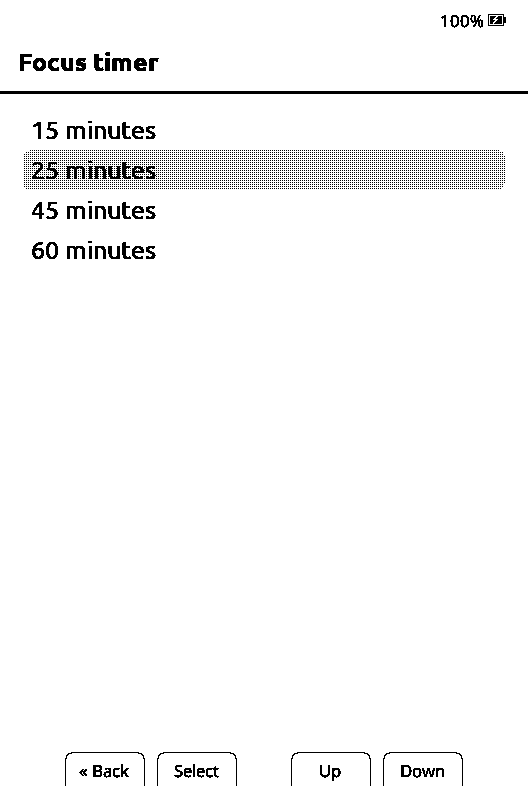
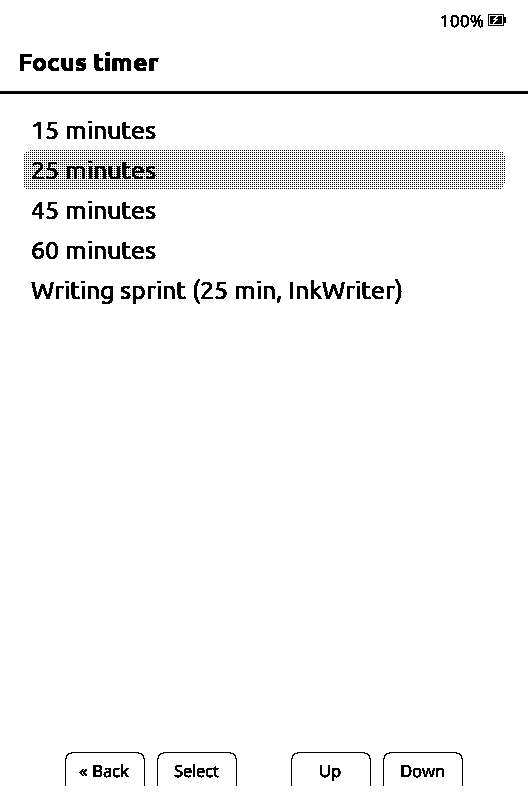
feat(apps): Focus writing sprint and InkWriter words in Year in books
InkWriter logs words written per day on each save; Year in books shows the
year's total. Focus gains a 25-minute Writing sprint that opens InkWriter
with the sprint running. Docs for the 1.6.5.10 features.

Changed region(s): [[0.0606, 0.3333, 0.7576, 0.3939]]

diff --git a/src/inkhome/SleepClock.cpp b/src/inkhome/SleepClock.cpp
@@ -20,12 +20,11 @@ namespace {
 constexpr uint8_t DIGIT_SEGMENTS[10] = {0x3F, 0x06, 0x5B, 0x4F, 0x66, 0x6D, 0x7D, 0x07, 0x7F, 0x6F};
 
 // Indexed by tm_wday (0 Sunday); the existing strings run Monday (1) to Sunday (7).
-constexpr StrId WEEKDAYS[7] = {StrId::STR_WEEKDAY_7, StrId::STR_WEEKDAY_1, StrId::STR_WEEKDAY_2,
-                               StrId::STR_WEEKDAY_3, StrId::STR_WEEKDAY_4, StrId::STR_WEEKDAY_5,
-                               StrId::STR_WEEKDAY_6};
-constexpr StrId MONTHS[12] = {StrId::STR_MONTH_1,  StrId::STR_MONTH_2,  StrId::STR_MONTH_3, StrId::STR_MONTH_4,
-                              StrId::STR_MONTH_5,  StrId::STR_MONTH_6,  StrId::STR_MONTH_7, StrId::STR_MONTH_8,
-                              StrId::STR_MONTH_9,  StrId::STR_MONTH_10, StrId::STR_MONTH_11, StrId::STR_MONTH_12};
+constexpr StrId WEEKDAYS[7] = {StrId::STR_WEEKDAY_7, StrId::STR_WEEKDAY_1, StrId::STR_WEEKDAY_2, StrId::STR_WEEKDAY_3,
+                               StrId::STR_WEEKDAY_4, StrId::STR_WEEKDAY_5, StrId::STR_WEEKDAY_6};
+constexpr StrId MONTHS[12] = {StrId::STR_MONTH_1, StrId::STR_MONTH_2,  StrId::STR_MONTH_3,  StrId::STR_MONTH_4,
+                              StrId::STR_MONTH_5, StrId::STR_MONTH_6,  StrId::STR_MONTH_7,  StrId::STR_MONTH_8,
+                              StrId::STR_MONTH_9, StrId::STR_MONTH_10, StrId::STR_MONTH_11, StrId::STR_MONTH_12};
 
 // One digit in a w x h box with stroke t.
 void drawDigit(const GfxRenderer& renderer, const int x, const int y, const int w, const int h, const int t,
@@ -48,7 +47,7 @@ void drawClock(const GfxRenderer& renderer) {
   const int width = renderer.getScreenWidth();
   const int height = renderer.getScreenHeight();
 
-  struct tm now {};
+  struct tm now{};
   if (!halClock.isAvailable() || !halClock.localTime(now) || now.tm_year < 124) {
     renderer.drawCenteredText(UI_12_FONT_ID, height / 2 - 20, tr(STR_CLOCK_NOT_SET), true, EpdFontFamily::BOLD);
     renderer.drawCenteredText(UI_10_FONT_ID, height / 2 + 10, tr(STR_CLOCK_NOT_SET_HINT), true);

diff --git a/src/apps/inkwriter/core/WordLog.cpp b/src/apps/inkwriter/core/WordLog.cpp
@@ -1,0 +1,56 @@
+#include "WordLog.h"
+
+#include <algorithm>
+#include <cstdio>
+#include <cstdlib>
+#include <numeric>
+
+namespace inkwriter {
+
+WordLog WordLog::parse(const std::string& text) {
+  WordLog log;
+  size_t pos = 0;
+  while (pos < text.size()) {
+    size_t end = text.find('\n', pos);
+    if (end == std::string::npos) end = text.size();
+    const std::string line = text.substr(pos, end - pos);
+    pos = end + 1;
+    char* rest = nullptr;
+    const unsigned long day = std::strtoul(line.c_str(), &rest, 10);
+    if (rest == line.c_str() || day == 0) continue;
+    const unsigned long words = std::strtoul(rest, nullptr, 10);
+    log.add(static_cast<uint32_t>(day), static_cast<uint32_t>(words));
+  }
+  return log;
+}
+
+std::string WordLog::serialise() const {
+  std::string out;
+  out.reserve(days_.size() * 14);
+  char line[32];
+  for (const auto& d : days_) {
+    snprintf(line, sizeof(line), "%lu %lu\n", static_cast<unsigned long>(d.day), static_cast<unsigned long>(d.words));
+    out += line;
+  }
+  return out;
+}
+
+void WordLog::add(const uint32_t day, const uint32_t words) {
+  if (day == 0 || words == 0) return;
+  auto it = std::lower_bound(days_.begin(), days_.end(), day,
+                             [](const WordDay& d, const uint32_t value) { return d.day < value; });
+  if (it != days_.end() && it->day == day) {
+    it->words += words;
+  } else {
+    days_.insert(it, WordDay{day, words});
+  }
+  if (days_.size() > MAX_DAYS) days_.erase(days_.begin(), days_.begin() + (days_.size() - MAX_DAYS));
+}
+
+uint64_t WordLog::total(const uint32_t firstDay, const uint32_t lastDay) const {
+  return std::accumulate(days_.begin(), days_.end(), uint64_t{0}, [&](const uint64_t sum, const WordDay& d) {
+    return d.day >= firstDay && d.day <= lastDay ? sum + d.words : sum;
+  });
+}
+
+}  // namespace inkwriter

diff --git a/src/apps/focus/FocusTimer.cpp b/src/apps/focus/FocusTimer.cpp
@@ -11,6 +11,8 @@
 #include "CrossPointState.h"
 #include "MappedInputManager.h"
 #include "RecentBooksStore.h"
+#include "apps/inkwriter/InkWriterApp.h"
+#include "apps/inkwriter/WritingStats.h"
 #include "apps/stats/ReadingStatsTracker.h"
 #include "components/UITheme.h"
 #include "fontIds.h"
@@ -97,6 +99,11 @@ void FocusActivity::onEnter() {
     rows[rowCount].actionValue = static_cast<int16_t>(rowCount);
     ++rowCount;
   }
+  // Inkhome: a 25-minute writing sprint in InkWriter.
+  rows[rowCount] = fui::ListItem{};
+  rows[rowCount].label = tr(STR_FOCUS_WRITE);
+  rows[rowCount].actionValue = static_cast<int16_t>(rowCount);
+  ++rowCount;
   if (running) {
     rows[rowCount] = fui::ListItem{};
     rows[rowCount].label = tr(STR_FOCUS_STOP);
@@ -113,7 +120,13 @@ const char* FocusActivity::headerTitle() const { return tr(STR_FOCUS_TITLE); }
 void FocusActivity::activateIndex(const int index) {
   if (index < 0 || index >= rowCount) return;
   app.clearTapFlash();
-  if (index >= LENGTH_COUNT) {
+  if (index == LENGTH_COUNT) {
+    inkwriter::setPendingSprint(25);
+    auto writer = inkwriter::create(renderer, mappedInput);
+    if (writer) activityManager.replaceActivity(std::move(writer));
+    return;
+  }
+  if (index > LENGTH_COUNT) {
     stop();
     finish();
     return;

diff --git a/src/apps/inkwriter/WritingStats.cpp b/src/apps/inkwriter/WritingStats.cpp
@@ -1,0 +1,43 @@
+#include "WritingStats.h"
+
+#include <HalStorage.h>
+
+#include "apps/stats/ReadingStatsTracker.h"
+#include "core/WordLog.h"
+#include "inkhome/SdState.h"
+
+namespace inkwriter {
+
+namespace {
+
+constexpr char STATE_DIR[] = "/.crosspoint/apps/inkwriter";
+constexpr char WORDS_PATH[] = "/.crosspoint/apps/inkwriter/words.txt";
+uint8_t pendingSprint = 0;
+
+WordLog load() {
+  if (!inkhome::sdMounted() || !Storage.exists(WORDS_PATH)) return {};
+  return WordLog::parse(Storage.readFile(WORDS_PATH).c_str());
+}
+
+}  // namespace
+
+void logWords(const uint32_t words) {
+  const uint32_t today = inkhome::stats::todayOrdinal();
+  if (words == 0 || today == 0 || !inkhome::sdMounted()) return;
+  WordLog log = load();
+  log.add(today, words);
+  Storage.mkdir(STATE_DIR, true);
+  Storage.writeFile(WORDS_PATH, String(log.serialise().c_str()));
+}
+
+uint64_t wordsWritten(const uint32_t firstDay, const uint32_t lastDay) { return load().total(firstDay, lastDay); }
+
+void setPendingSprint(const uint8_t minutes) { pendingSprint = minutes; }
+
+uint8_t takePendingSprint() {
+  const uint8_t m = pendingSprint;
+  pendingSprint = 0;
+  return m;
+}
+
+}  // namespace inkwriter

diff --git a/src/apps/stats/YearInBooksApp.cpp b/src/apps/stats/YearInBooksApp.cpp
@@ -12,6 +12,7 @@
 
 #include "MappedInputManager.h"
 #include "ReadingStatsTracker.h"
+#include "apps/inkwriter/WritingStats.h"
 #include "components/UITheme.h"
 #include "fontIds.h"
 #include "util/ScreenshotUtil.h"
@@ -143,7 +144,10 @@ void YearInBooksActivity::drawCard() {
   }
   if (y.busiestMonth > 0) row(tr(STR_YEAR_BUSIEST_MONTH), I18N.get(MONTHS[y.busiestMonth - 1]));
   if (y.favouriteWeekday >= 0) row(tr(STR_YEAR_FAVOURITE_DAY), I18N.get(WEEKDAYS[y.favouriteWeekday]));
-  if (y.totalMs == 0) renderer.drawCenteredText(UI_12_FONT_ID, top, tr(STR_YEAR_EMPTY), true);
+  // Inkhome: words written in InkWriter this year.
+  const uint64_t written = inkwriter::wordsWritten(daysFromCivil(year, 1, 1), daysFromCivil(year, 12, 31));
+  if (written > 0) row(tr(STR_YEAR_WORDS), std::to_string(written));
+  if (y.totalMs == 0 && written == 0) renderer.drawCenteredText(UI_12_FONT_ID, top, tr(STR_YEAR_EMPTY), true);
 
   renderer.drawCenteredText(SMALL_FONT_ID, height - PADDING - renderer.getLineHeight(SMALL_FONT_ID),
                             tr(STR_YEAR_FOOTER), true);

diff --git a/test/inkhome/InkWriterTest.cpp b/test/inkhome/InkWriterTest.cpp
@@ -6,6 +6,7 @@
 
 #include "apps/inkwriter/core/Editor.h"
 #include "apps/inkwriter/core/Session.h"
+#include "apps/inkwriter/core/WordLog.h"
 #include "apps/inkwriter/core/WrapRows.h"
 
 using namespace inkwriter;
@@ -105,4 +106,19 @@ TEST(InkWriter, WrapsAtSpacesAndFindsCursor) {
   EXPECT_EQ(cursorRow(rows, 0, 11), 1u);  // end of line stays on its last row
   EXPECT_EQ(cursorRow(rows, 1, 0), 2u);
   EXPECT_EQ(cursorRow(rows, 2, 12), 4u);
+}
+
+TEST(InkWriter, WordLogAddsPerDayAndRoundTrips) {
+  WordLog log;
+  log.add(20000, 120);
+  log.add(19999, 30);
+  log.add(20000, 80);
+  log.add(0, 50);  // no clock: ignored
+  ASSERT_EQ(log.days().size(), 2u);
+  EXPECT_EQ(log.days()[0].day, 19999u);
+  EXPECT_EQ(log.days()[1].words, 200u);
+  EXPECT_EQ(log.total(20000, 20000), 200u);
+  EXPECT_EQ(log.total(0, 30000), 230u);
+  const WordLog again = WordLog::parse(log.serialise() + "garbage\n");
+  EXPECT_EQ(again.total(0, 30000), 230u);
 }

diff --git a/src/apps/inkwriter/InkWriterApp.cpp b/src/apps/inkwriter/InkWriterApp.cpp
@@ -13,6 +13,7 @@
 #include <cstring>
 
 #include "MappedInputManager.h"
+#include "WritingStats.h"
 #include "apps/AppPaths.h"
 #include "apps/stats/ReadingStatsTracker.h"
 #include "components/UITheme.h"
@@ -395,6 +396,8 @@ void EditorActivity::onEnter() {
   editor.setText(text);
   editor.clearDirty();
   sessionStartWords = editor.wordCount();
+  loggedWords = sessionStartWords;
+  if (const uint8_t minutes = takePendingSprint()) sprint.start(millis(), minutes * 60000UL);  // from Focus
   lastSaveMs = millis();
   lastKeyMs = millis();
   wasConnected = ble().isConnected();
@@ -429,6 +432,10 @@ void EditorActivity::save() {
     return;
   }
   editor.clearDirty();
+  // Only growth counts as words written; deleting lowers the baseline.
+  const int words = editor.wordCount();
+  if (words > loggedWords) logWords(static_cast<uint32_t>(words - loggedWords));
+  loggedWords = words;
 }
 
 void EditorActivity::noteWriting() {

diff --git a/src/apps/inkwriter/core/WordLog.h b/src/apps/inkwriter/core/WordLog.h
@@ -1,0 +1,33 @@
+#pragma once
+
+// Words written per day in InkWriter, kept as "day words" lines (days since
+// 1970-01-01). Pure, host-tested; the app persists it on the card.
+
+#include <cstdint>
+#include <string>
+#include <vector>
+
+namespace inkwriter {
+
+struct WordDay {
+  uint32_t day = 0;
+  uint32_t words = 0;
+};
+
+class WordLog {
+ public:
+  static constexpr size_t MAX_DAYS = 800;  // a little over two years
+
+  static WordLog parse(const std::string& text);
+  std::string serialise() const;
+
+  void add(uint32_t day, uint32_t words);
+  // Words on days in [firstDay, lastDay].
+  uint64_t total(uint32_t firstDay, uint32_t lastDay) const;
+  const std::vector<WordDay>& days() const { return days_; }
+
+ private:
+  std::vector<WordDay> days_;  // ascending by day
+};
+
+}  // namespace inkwriter

diff --git a/src/apps/notes/core/NotesFormat.cpp b/src/apps/notes/core/NotesFormat.cpp
@@ -1,5 +1,6 @@
 #include "NotesFormat.h"
 
+#include <algorithm>
 #include <cstdio>
 
 namespace inkhome::notes {
@@ -54,9 +55,9 @@ std::string markdownFor(const std::string& title, const std::string& author, con
 std::string highlightsHeader(const std::string& title) { return "# " + title + "\n*Highlights*\n\n"; }
 
 std::string highlightEntry(const std::string& passage, const int percent) {
-  std::string quoted;
-  quoted.reserve(passage.size() + 2);
-  for (const char c : passage) quoted.push_back(c == '\n' || c == '\r' ? ' ' : c);
+  std::string quoted = passage;
+  std::transform(quoted.begin(), quoted.end(), quoted.begin(),
+                 [](const char c) { return c == '\n' || c == '\r' ? ' ' : c; });
   return "> " + quoted + "\n\n*" + std::to_string(percent) + "%*\n\n";
 }
 

diff --git a/src/inkhome/PageTurner.cpp b/src/inkhome/PageTurner.cpp
@@ -64,8 +64,8 @@ void tick(const bool readerActive) {
     using SK = freeink::SpecialKey;
     const bool next = ev.special == SK::PageDown || ev.special == SK::Right || ev.special == SK::Down ||
                       ev.special == SK::Enter || (ev.special == SK::None && ev.ch == ' ');
-    const bool prev = ev.special == SK::PageUp || ev.special == SK::Left || ev.special == SK::Up ||
-                      ev.special == SK::Backspace;
+    const bool prev =
+        ev.special == SK::PageUp || ev.special == SK::Left || ev.special == SK::Up || ev.special == SK::Backspace;
     if (next) pendingNext = true;
     if (prev) pendingPrev = true;
     if (next || prev) lastKeyMs = millis();

diff --git a/src/apps/inkwriter/WritingStats.h b/src/apps/inkwriter/WritingStats.h
@@ -1,0 +1,19 @@
+#pragma once
+
+// What other screens need from InkWriter: words written per day (logged on
+// every save, kept in /.crosspoint/apps/inkwriter/words.txt) and a sprint the
+// Focus timer asks the next opened draft to start.
+
+#include <cstdint>
+
+namespace inkwriter {
+
+// Adds `words` to today's count (ignored without a clock).
+void logWords(uint32_t words);
+// Words written on days [firstDay, lastDay] (days since 1970-01-01).
+uint64_t wordsWritten(uint32_t firstDay, uint32_t lastDay);
+
+void setPendingSprint(uint8_t minutes);
+uint8_t takePendingSprint();
+
+}  // namespace inkwriter

diff --git a/src/apps/focus/FocusTimer.h b/src/apps/focus/FocusTimer.h
@@ -37,7 +37,7 @@ class FocusActivity final : public UiListActivity {
   const char* headerTitle() const override;
 
   static constexpr int LENGTH_COUNT = 4;
-  freeink::ui::ListItem rows[LENGTH_COUNT + 1];
+  freeink::ui::ListItem rows[LENGTH_COUNT + 2];  // lengths, writing sprint, stop
   char labels[LENGTH_COUNT][24] = {};
   int rowCount = 0;
 };
